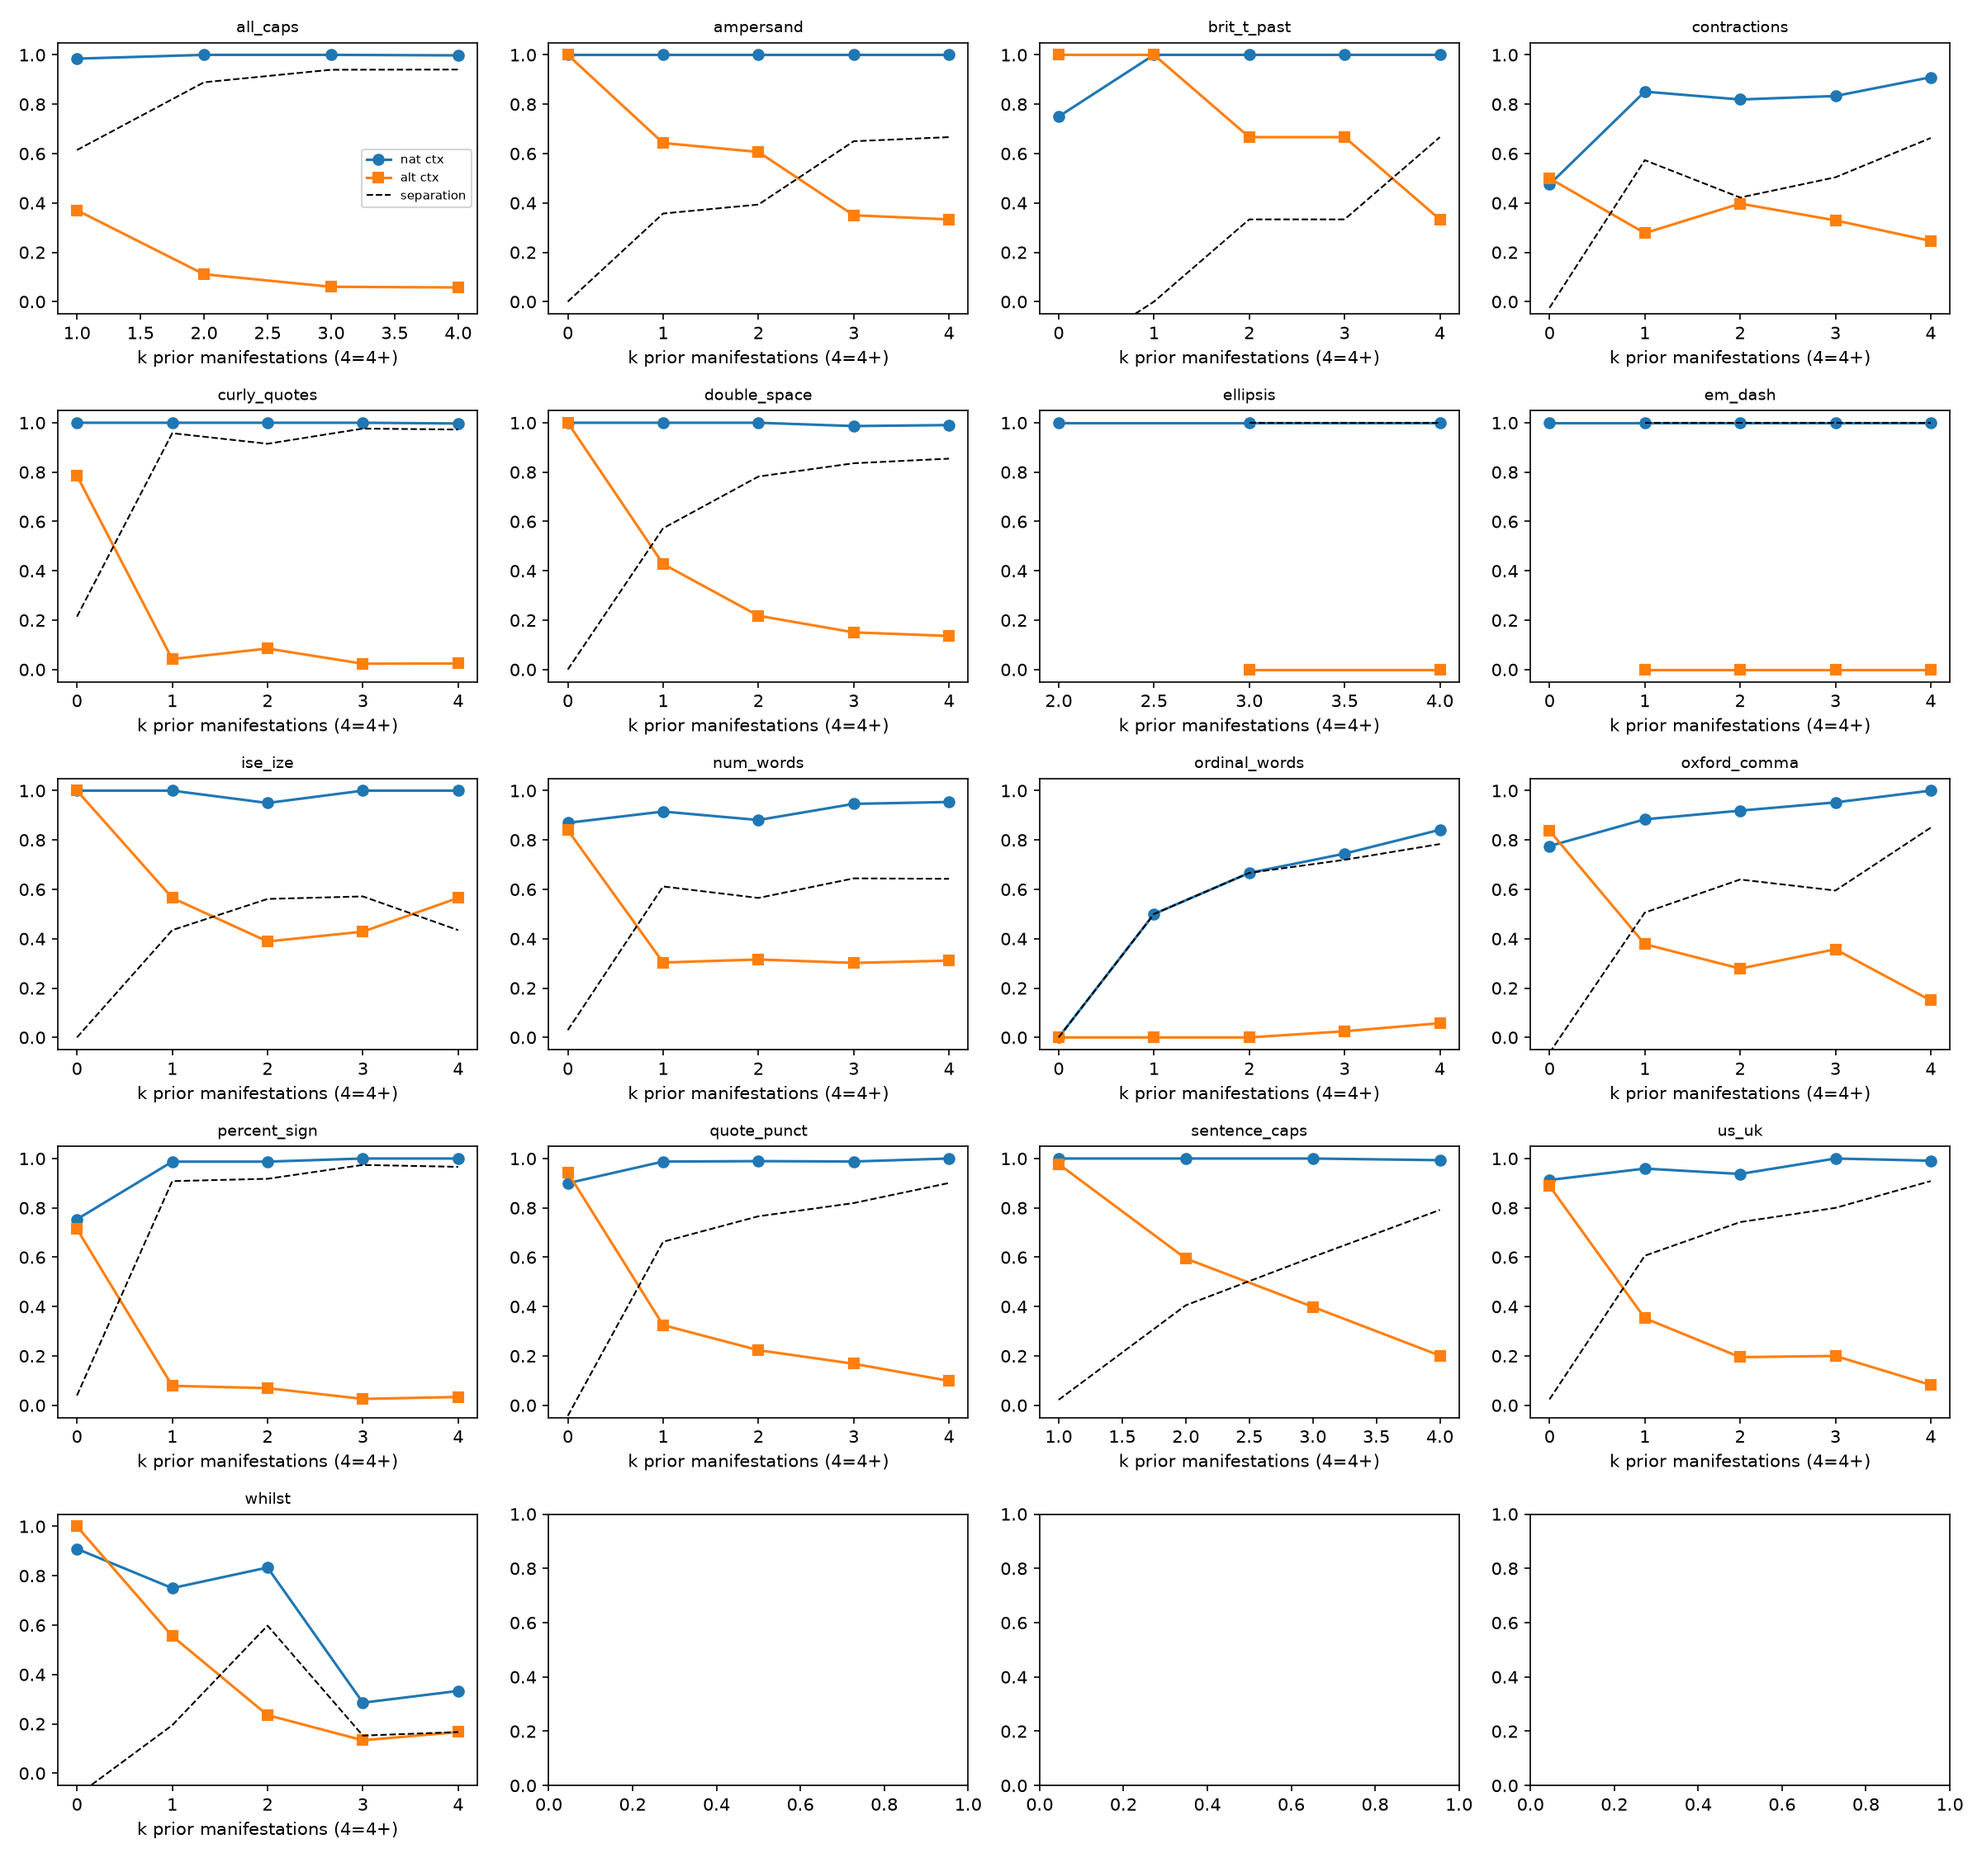
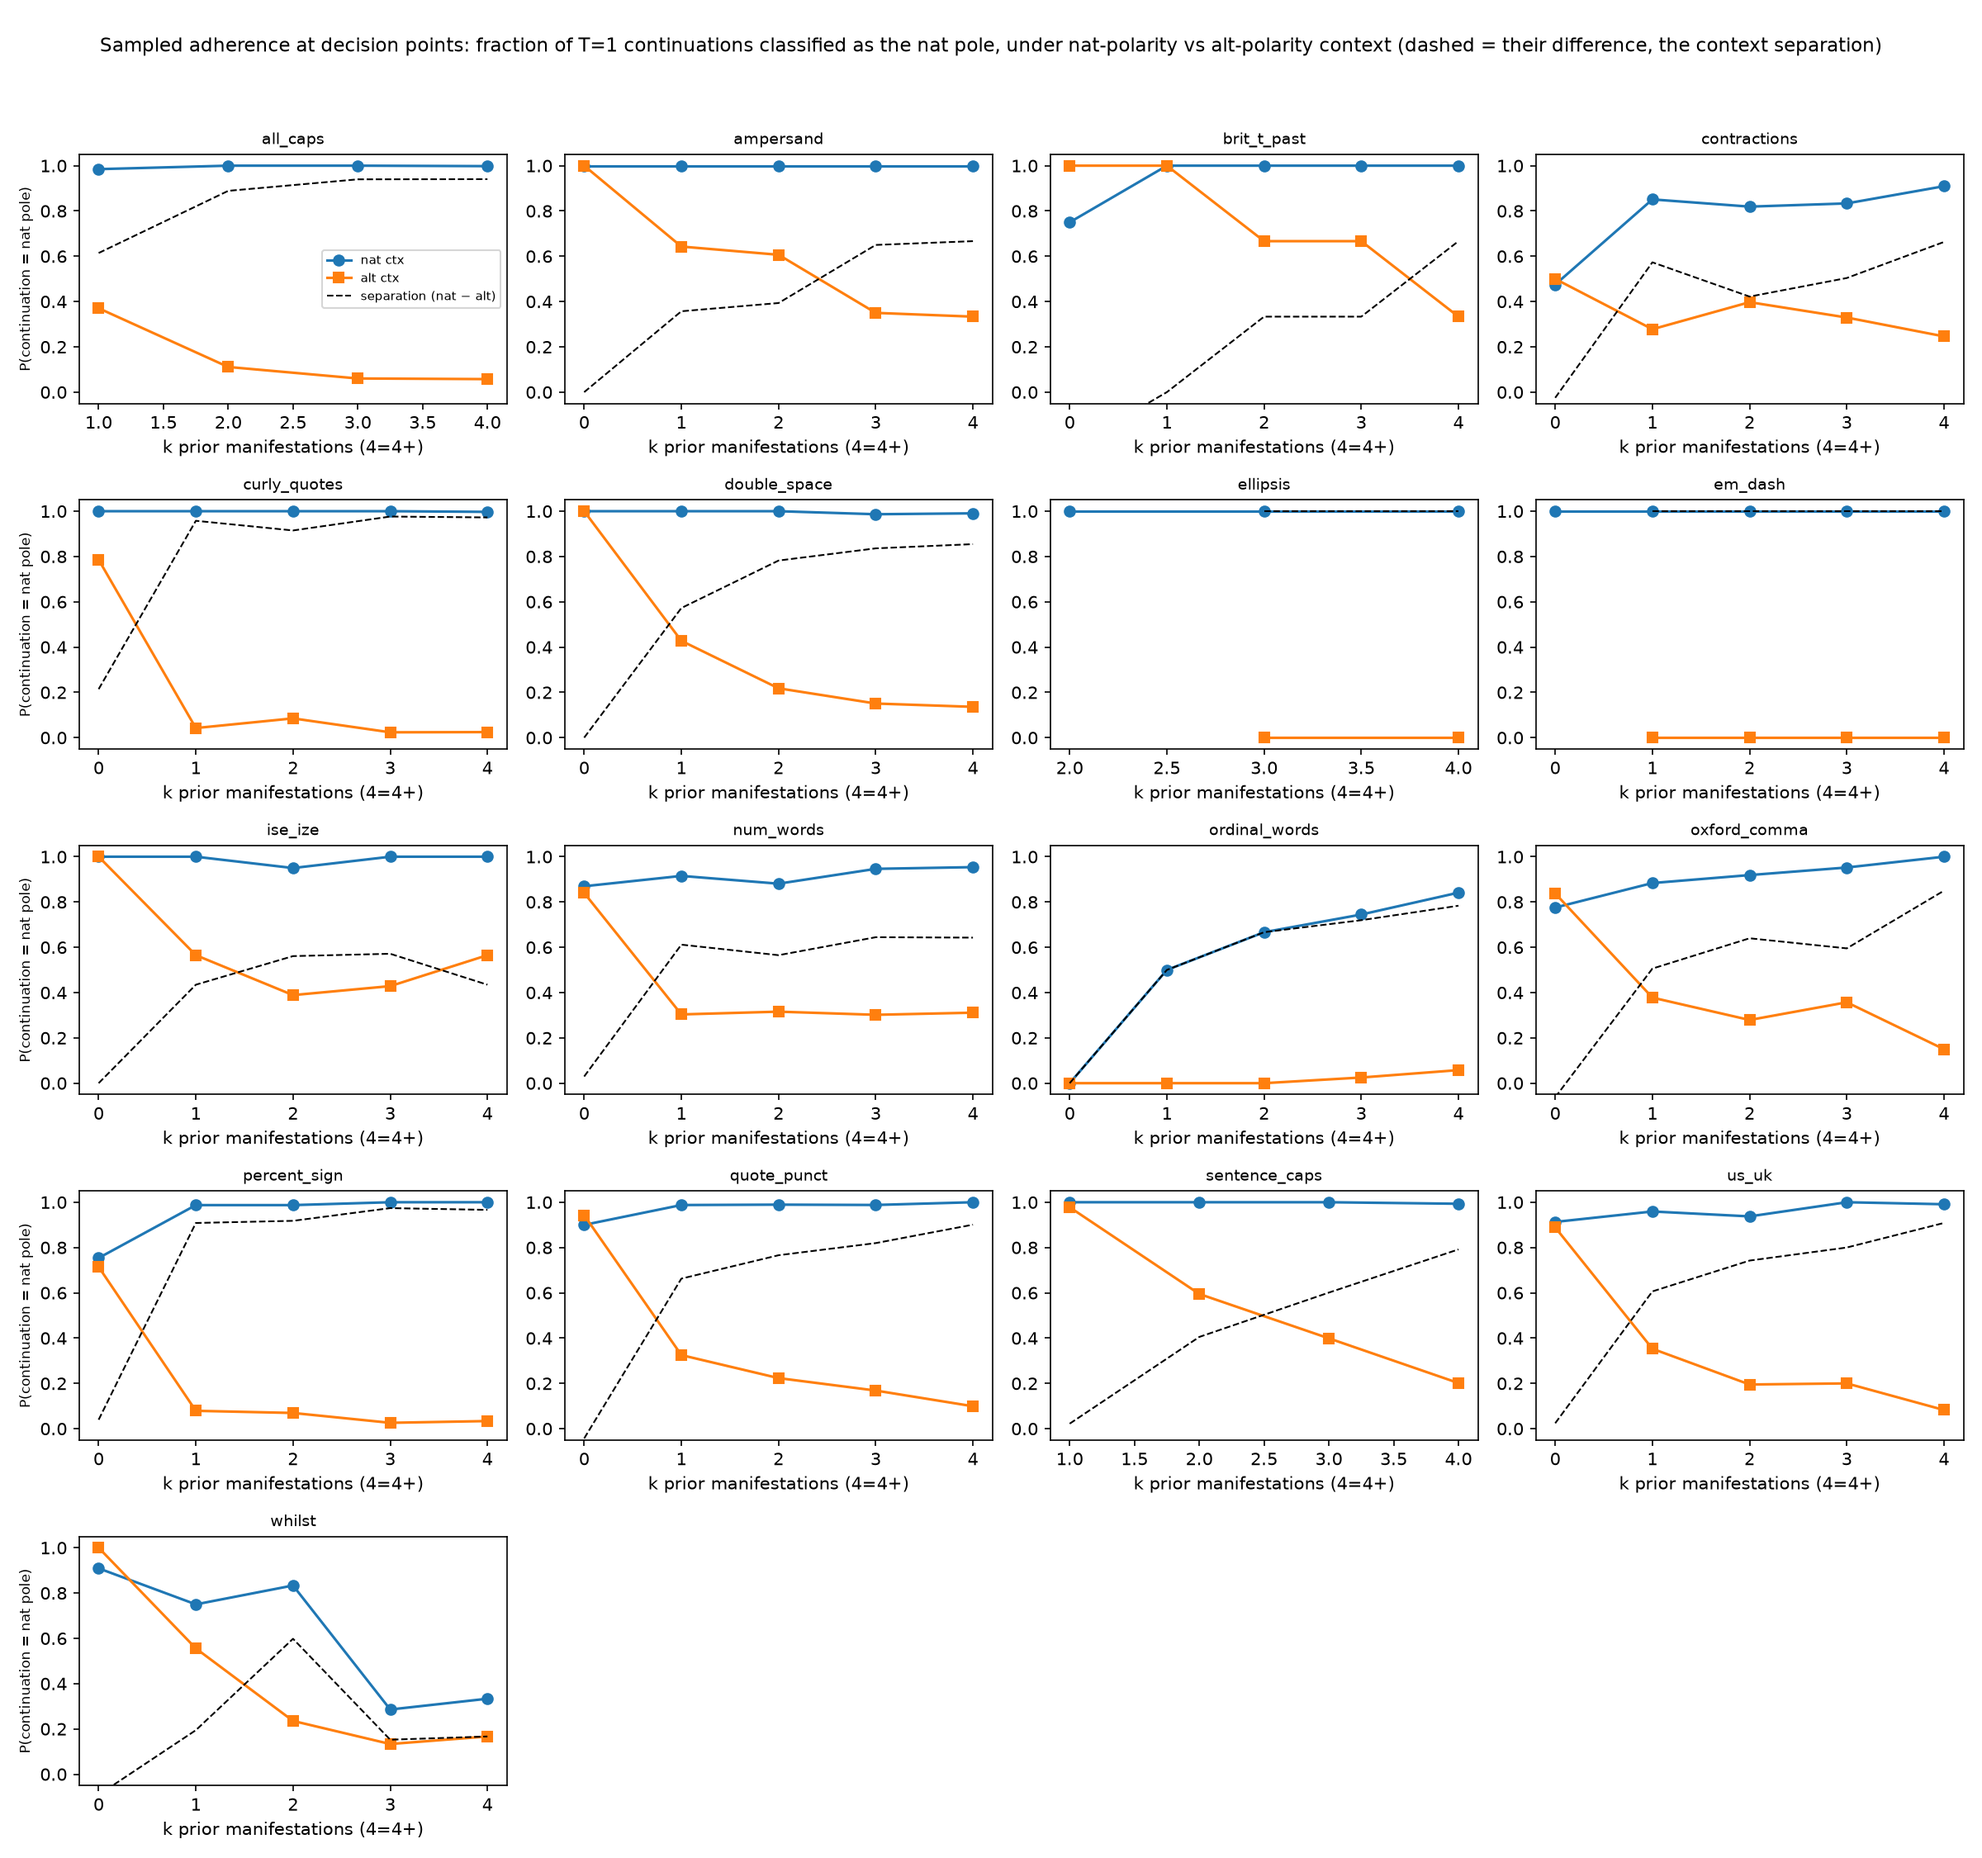
prescreen figures: y-axis labels, explanatory suptitles, hide empty panels

diff --git a/src/sandbox/ext_styleprops/plot_prescreen.py b/src/sandbox/ext_styleprops/plot_prescreen.py
@@ -80,10 +80,12 @@ def main():
         a = ax1[pi // ncol][pi % ncol]
         a.plot(K_BINS, curves["nat"][1], "o-", label="nat ctx")
         a.plot(K_BINS, curves["alt"][1], "s-", label="alt ctx")
-        a.plot(K_BINS, s_curve, "k--", lw=1, label="separation")
+        a.plot(K_BINS, s_curve, "k--", lw=1, label="separation (nat − alt)")
         a.set_title(name, fontsize=9)
         a.set_ylim(-0.05, 1.05)
         a.set_xlabel("k prior manifestations (4=4+)")
+        if pi % ncol == 0:
+            a.set_ylabel("P(continuation = nat pole)", fontsize=8)
         if pi == 0:
             a.legend(fontsize=7)
 
@@ -101,6 +103,8 @@ def main():
         a.set_title(name, fontsize=9)
         a.set_ylim(-0.2, 1.0)
         a.set_xlabel("tok distance since last manifestation (k>=2)")
+        if pi % ncol == 0:
+            a.set_ylabel("separation s", fontsize=8)
 
         # gate
         scorable = np.mean([r["label"] is not None for r in recs])
@@ -124,10 +128,16 @@ def main():
                          adh_disfavored_k4=round(adh_disf, 3) if not np.isnan(adh_disf) else "",
                          PASS=passed))
 
+    for k in range(len(props), nrow * ncol):
+        ax1[k // ncol][k % ncol].axis("off")
+        ax2[k // ncol][k % ncol].axis("off")
+    fig1.suptitle("Sampled adherence at decision points: fraction of T=1 continuations "
+                  "classified as the nat pole, under nat-polarity vs alt-polarity context "
+                  "(dashed = their difference, the context separation)", fontsize=11)
+    fig2.suptitle("Context separation s = P(nat | nat ctx) − P(nat | alt ctx) at decision "
+                  "points, by token distance since the property last manifested", fontsize=11)
     for f_, name_ in ((fig1, "adherence_by_k.png"), (fig2, "separation_by_dist.png")):
-        for axrow in (ax1 if f_ is fig1 else ax2):
-            pass
-        f_.tight_layout()
+        f_.tight_layout(rect=(0, 0, 1, 0.96))
         f_.savefig(OUT_DIR / name_, dpi=150)
     np.savez(OUT_DIR / "prescreen_records.npz", **npz)
 
